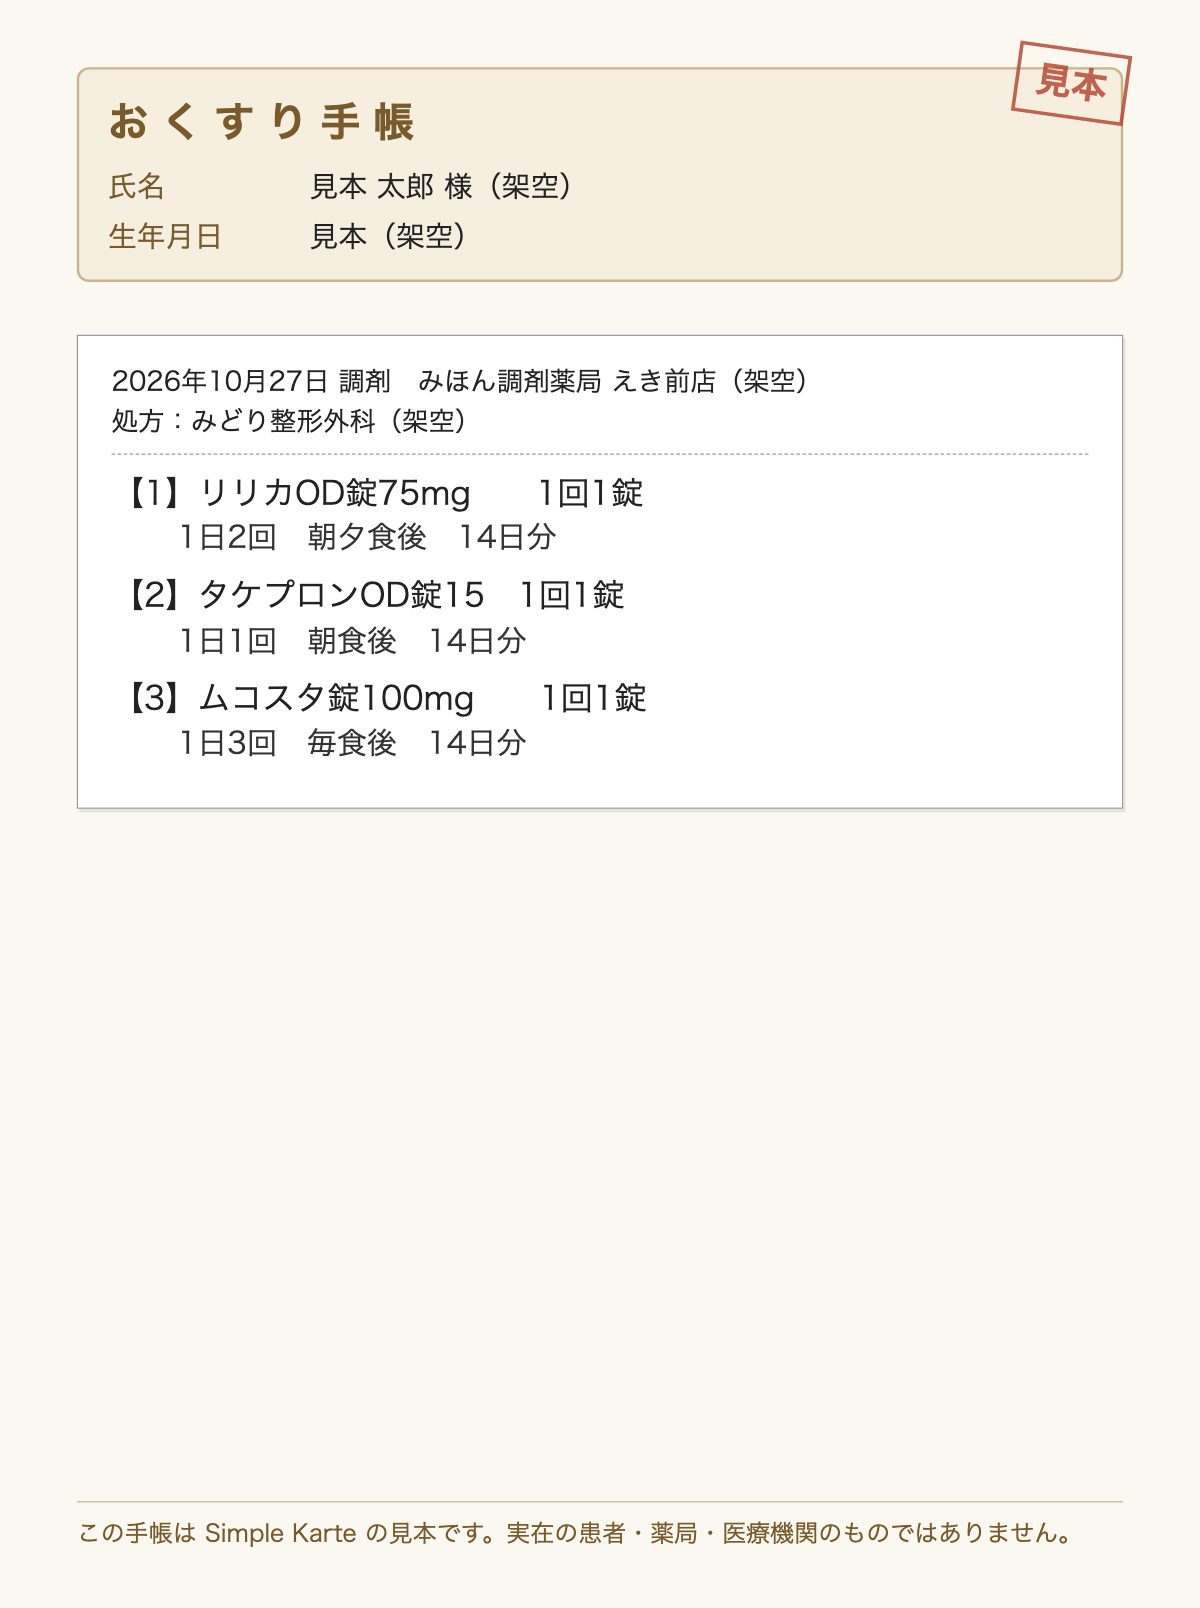
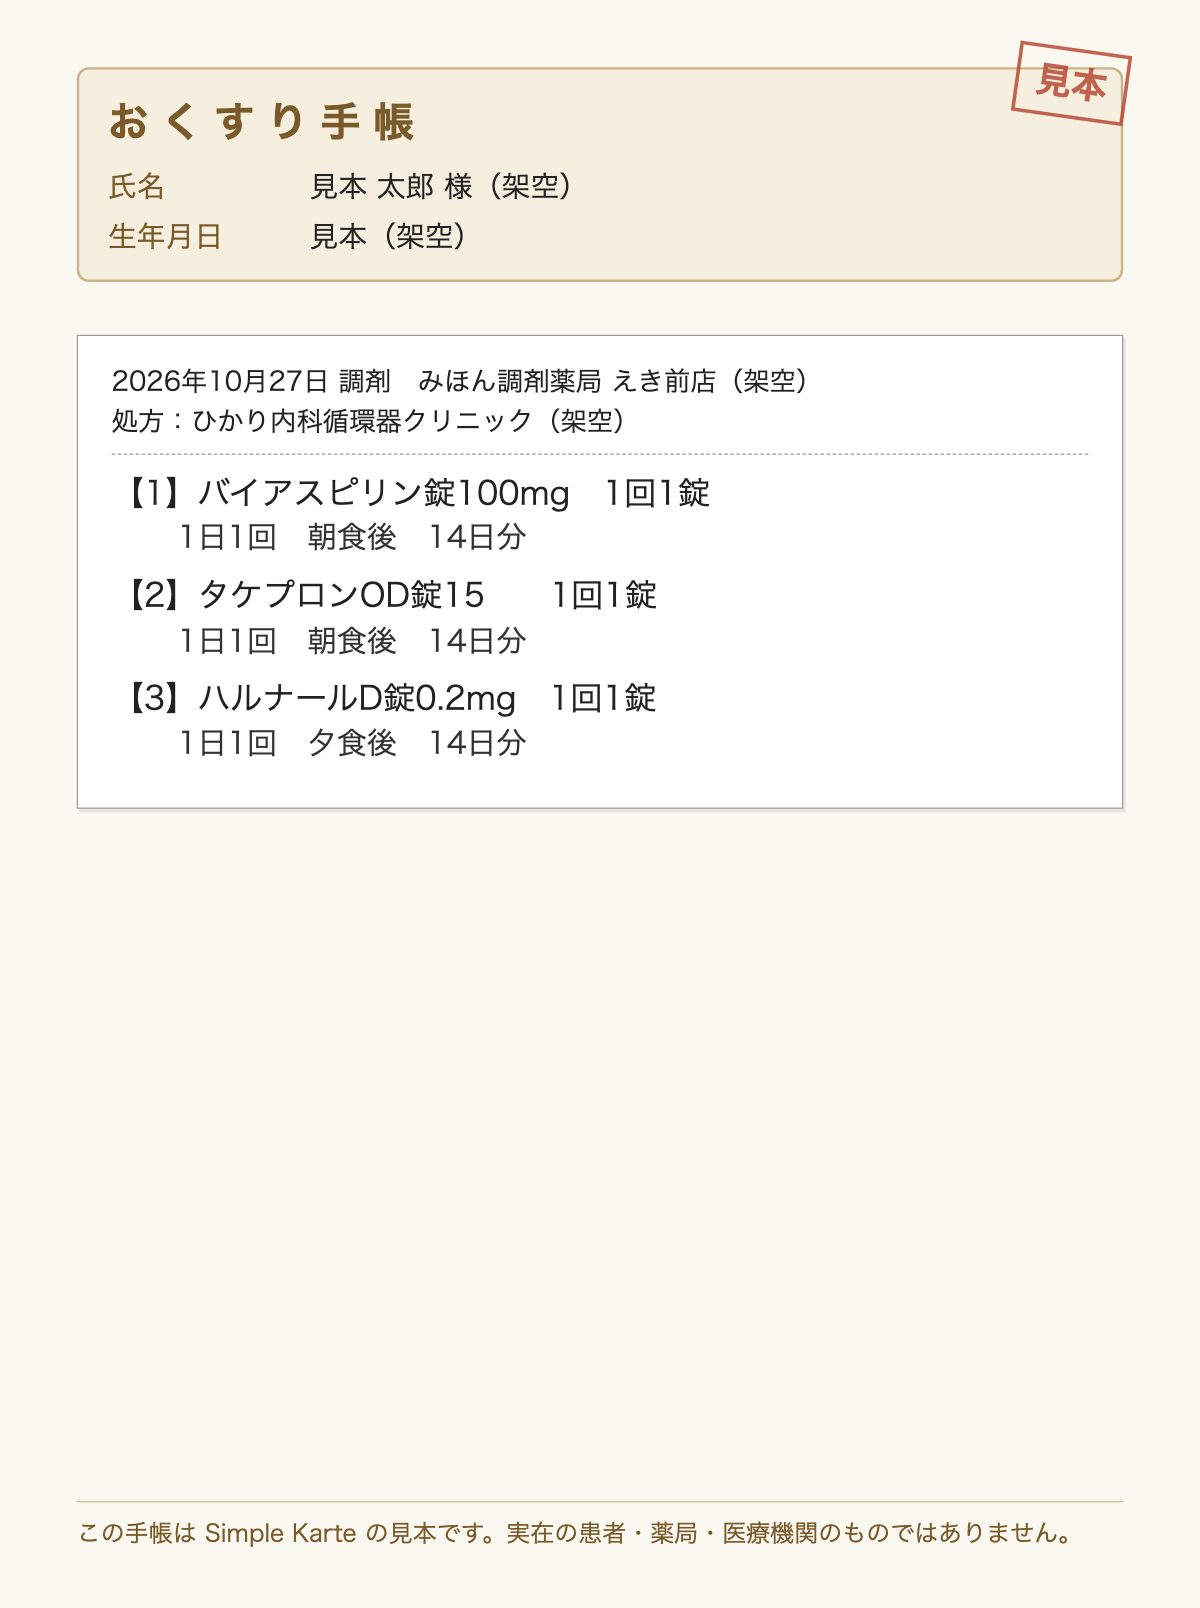
お薬手帳の見本で、院内のマスターにない薬（ザイザル・ハルナールD）と院内の品名そのままの薬（酸化マグネシウム・バイアスピリン）を見分けて試せるようになった

Changed region(s): [[0.1542, 0.2488, 0.5858, 0.4664], [0.185, 0.4042, 0.4317, 0.4664]]

diff --git a/scripts/samples/okusuri-techo.html b/scripts/samples/okusuri-techo.html
@@ -39,7 +39,7 @@
     <div class="rx">【1】ノルバスク錠5mg　　1回1錠<div class="use">1日1回　朝食後　28日分</div></div>
     <div class="rx">【2】ラシックス錠20mg　1回1錠<div class="use">1日1回　朝食後　28日分</div></div>
     <div class="rx">【3】酸化マグネシウム錠330mg　1回1錠<div class="use">1日3回　毎食後　28日分</div></div>
-    <div class="rx">【4】エクア錠50mg　　　1回1錠<div class="use">1日2回　朝夕食後　28日分</div></div>
+    <div class="rx">【4】ザイザル錠5mg　　　1回1錠<div class="use">1日1回　就寝前　28日分</div></div>
     <div class="rx">【5】カロナール錠500　1回1錠<div class="use">頓用　疼痛時　10回分</div></div>
   </div>
   <div class="note">この手帳は Simple Karte の見本です。実在の患者・薬局・医療機関のものではありません。</div>
@@ -54,10 +54,10 @@
     </dl>
   </div>
   <div class="sticker">
-    <div class="top">2026年10月27日 調剤　みほん調剤薬局 えき前店（架空）<br>処方：みどり整形外科（架空）</div>
-    <div class="rx">【1】リリカOD錠75mg　　1回1錠<div class="use">1日2回　朝夕食後　14日分</div></div>
-    <div class="rx">【2】タケプロンOD錠15　1回1錠<div class="use">1日1回　朝食後　14日分</div></div>
-    <div class="rx">【3】ムコスタ錠100mg　　1回1錠<div class="use">1日3回　毎食後　14日分</div></div>
+    <div class="top">2026年10月27日 調剤　みほん調剤薬局 えき前店（架空）<br>処方：ひかり内科循環器クリニック（架空）</div>
+    <div class="rx">【1】バイアスピリン錠100mg　1回1錠<div class="use">1日1回　朝食後　14日分</div></div>
+    <div class="rx">【2】タケプロンOD錠15　　1回1錠<div class="use">1日1回　朝食後　14日分</div></div>
+    <div class="rx">【3】ハルナールD錠0.2mg　1回1錠<div class="use">1日1回　夕食後　14日分</div></div>
   </div>
   <div class="note">この手帳は Simple Karte の見本です。実在の患者・薬局・医療機関のものではありません。</div>
 </section>
